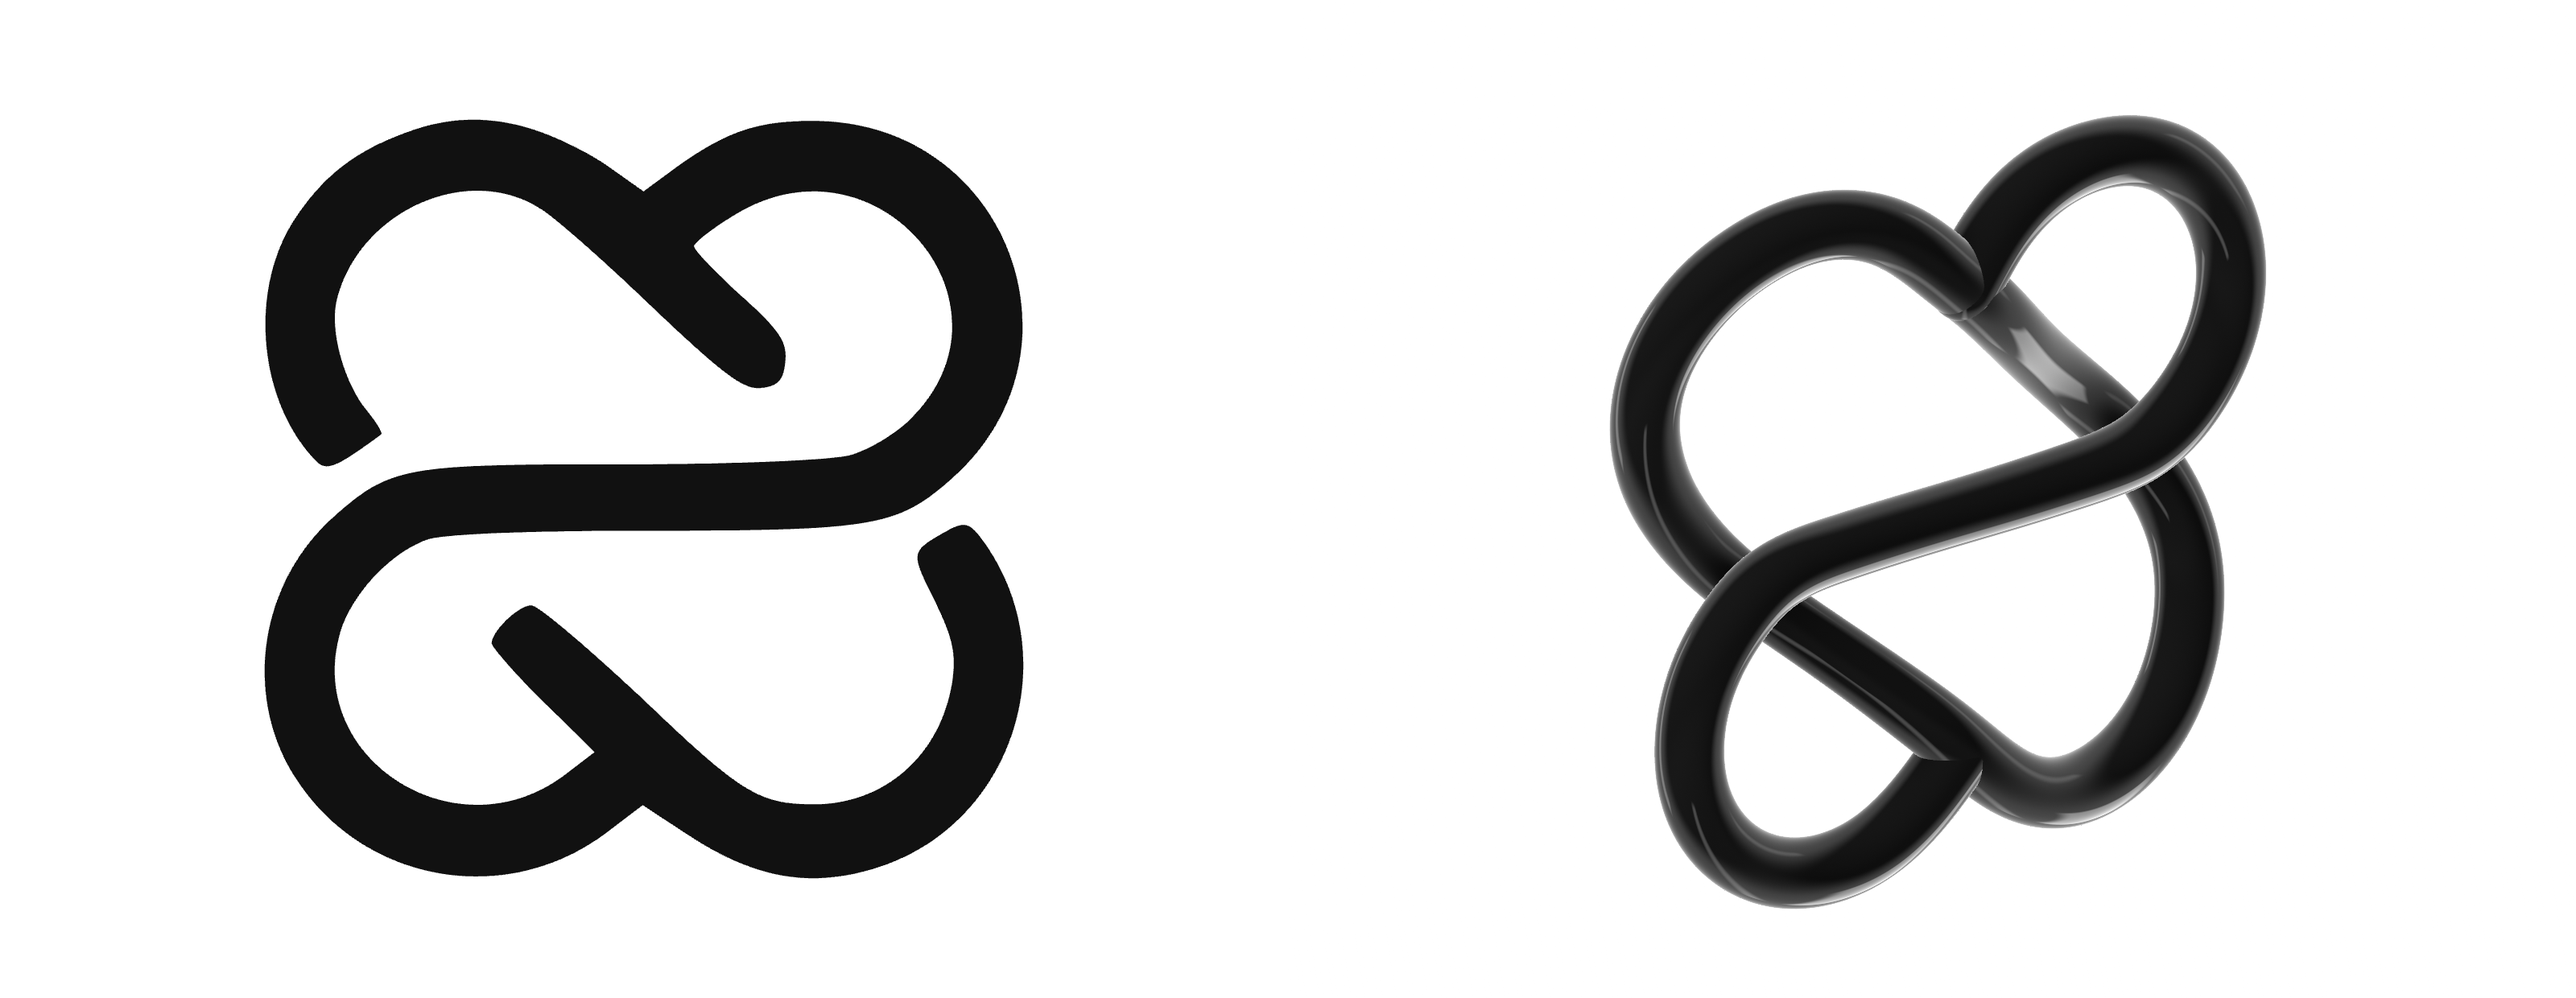
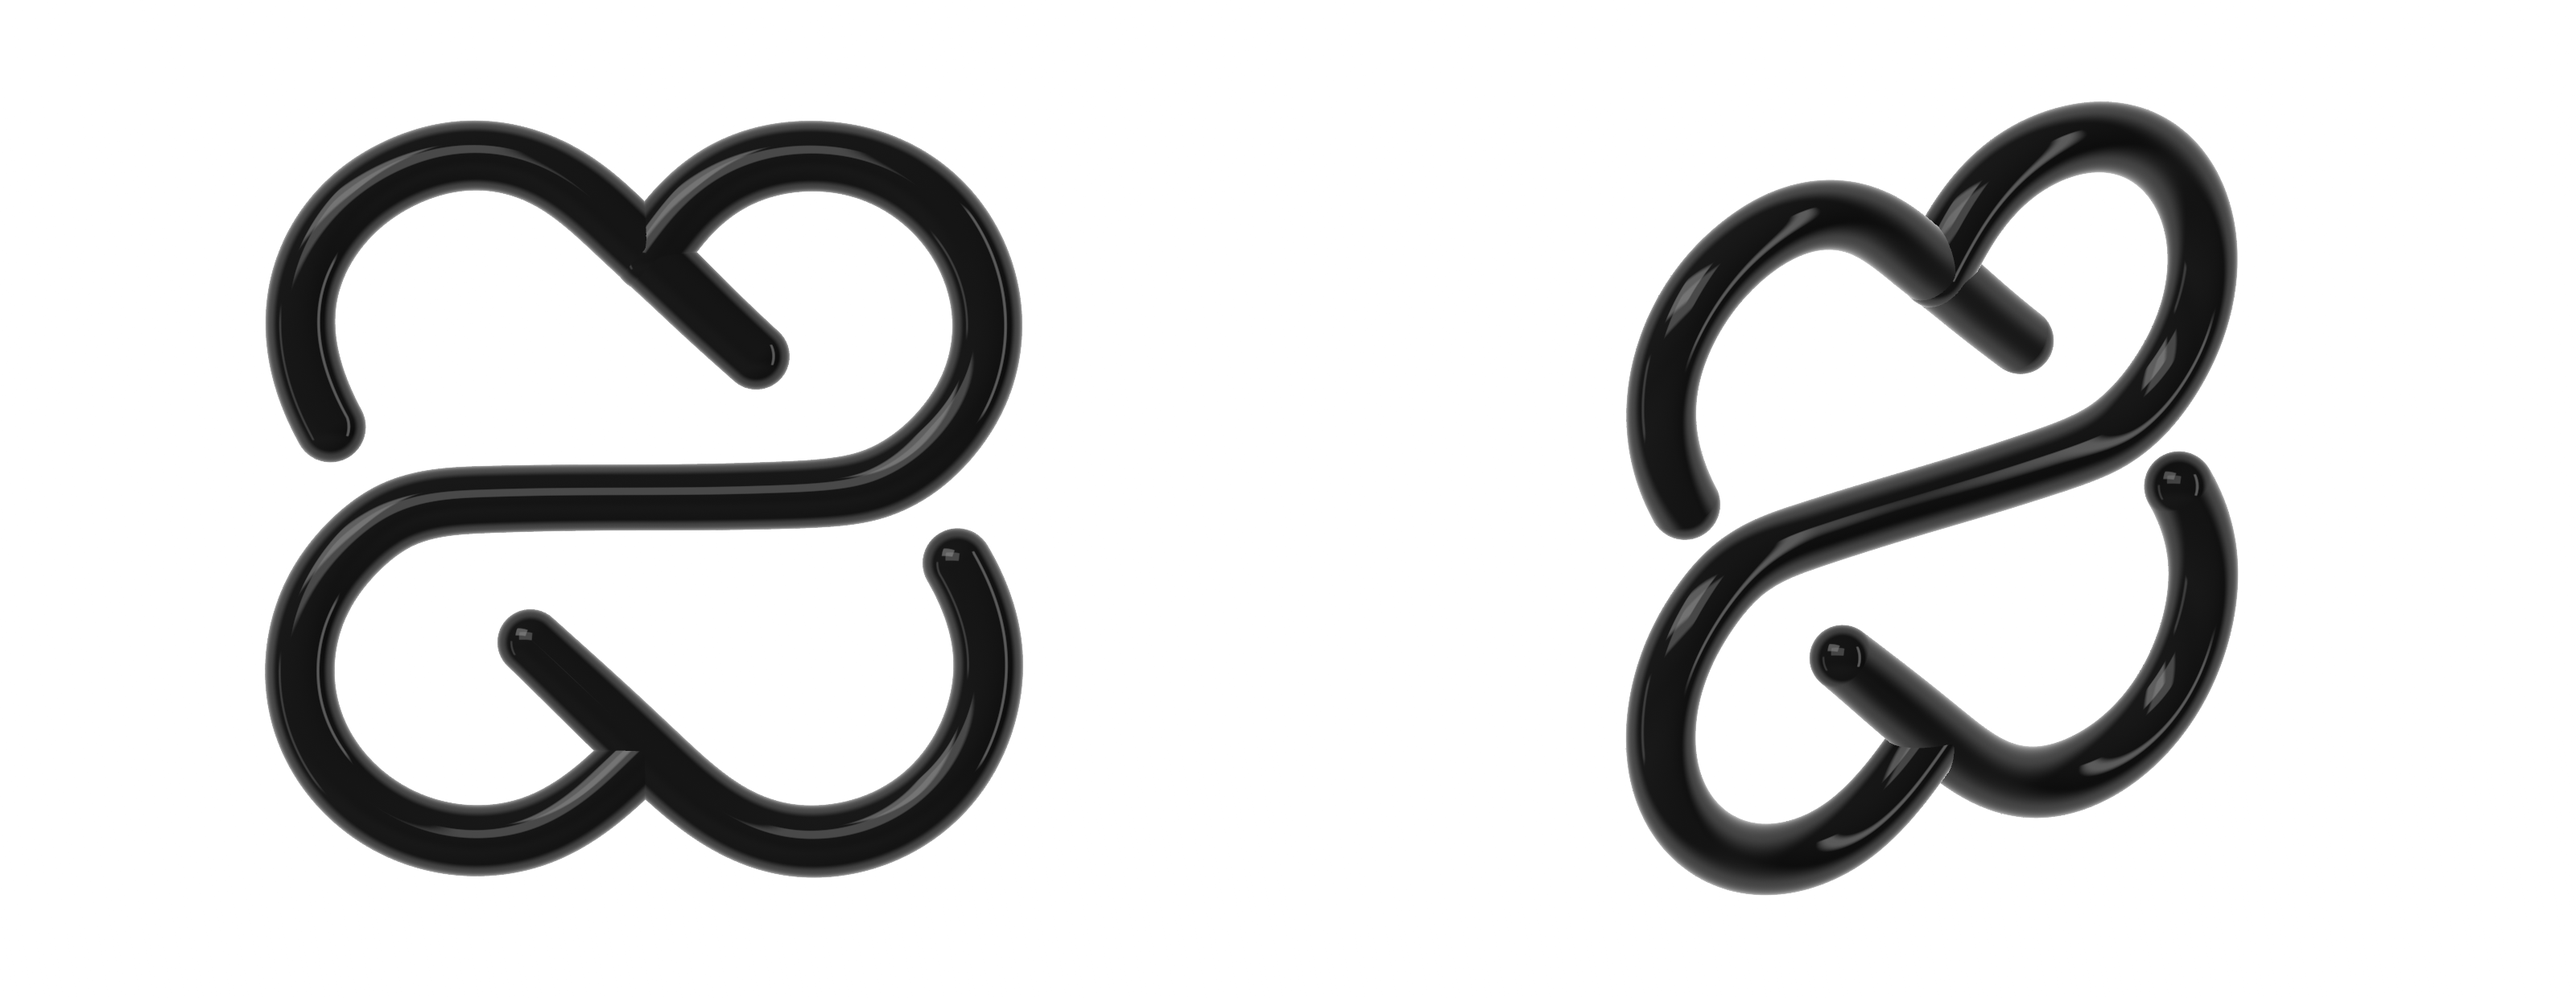
Show the planar tubes in the README

Changed region(s): [[0.0938, 0.1226, 0.4062, 0.8887], [0.625, 0.0919, 0.9062, 0.9194]]

diff --git a/README.md b/README.md
@@ -1,14 +1,14 @@
 # crafter-knot
 
-![The Crafter Station mark, flat and turned into a 3D tube](.github/hero.png)
+![The Crafter Station mark as glossy 3D tubes, front and turned](.github/hero.png)
 
-The Crafter Station mark as a real 3D tube, like three.js's `TorusKnotGeometry`, rendered on WebGPU
-with [vgpu](https://vgpu.sh). At rest it is the logo, pixel for pixel. Drag it and it turns into the
-woven tube the outline was drawn from.
+The Crafter Station mark as real 3D tubes, like three.js's `TorusKnotGeometry`, rendered on WebGPU
+with [vgpu](https://vgpu.sh). Every stroke keeps the mark's exact path, weight, gaps and joins, and is
+swept into a round tube with a black lacquer finish, from the first frame and at every angle.
 
 | Input                     | Does                                                         |
 | ------------------------- | ------------------------------------------------------------ |
-| Drag, mouse or one finger | Turn it; let go and it drifts, then springs back to the mark |
+| Drag, mouse or one finger | Turn it; let go and it drifts, then springs back to face you |
 | `?turn=yaw,pitch`         | Pins a pose in degrees, for stills                           |
 | `?still`                  | Skips the intro swing                                        |
 
@@ -16,59 +16,45 @@ woven tube the outline was drawn from.
 npm install
 npm run dev
 npm run build && npm run preview
-npm run fit   # refits the tube to src/knot/mark.svg (needs Bun)
+npm run fit   # refits the tubes to src/knot/mark.svg (needs Bun)
 ```
 
-Needs WebGPU: current Chrome, Edge and Safari 26. Without it the page keeps the SVG mark, which is
-also what shows while the GPU starts, aligned to the pixel with the first rendered frame.
+Needs WebGPU: current Chrome, Edge and Safari 26. Without it the page shows the SVG mark.
 
-## From outline to tube
+## From outline to tubes
 
 The SVG is one filled outline (42 Bézier segments), not a stroke, so `scripts/fit.ts` recovers the
-tube behind it and writes `src/knot/strands.ts`:
+tubes behind it and writes `src/knot/strands.ts`:
 
-1. **Label the outline.** Each segment is a side of one of two strands or one of the four rounded
-   ends. The stroke is not constant: about 24.2 units on the lobes, 23.3 on the diagonals and 22.8
+1. **Label the outline.** Each segment is a side of one of two strokes or one of the four rounded
+   ends. The weight is not constant: about 24.2 units on the lobes, 23.3 on the diagonals and 22.8
    on the bar (in the 257-unit box).
-2. **Two strands.** The mark is not a single knot: two strokes merge at the top and bottom centre.
-   - The **loop** is closed: top-left lobe, diagonal, under the bar, bottom-right lobe, diagonal,
-     under the bar.
-   - The **bridge** is open: top-right lobe, the bar, bottom-left lobe. Both of its ends finish
-     inside the loop, a weld that reads like the merged strokes from every angle.
-3. **Fit.** Each strand is a uniform cubic B-spline in (x, y, z, radius): 40 knots for the loop, 38
-   for the bridge. The centre line comes from squared-distance minimisation against the outline
-   offset inwards, with a bending penalty that carries it smoothly through the hidden stretches.
-   The radius comes from a second least-squares pass, so the tube keeps the mark's changing weight.
-   Edge error: 0.12 units rms (0.68 max) on the loop and 0.08 (0.44) on the bridge.
-4. **Depth.** The loop dips 1.3 radii where it passes under the bar and rises to the bridge's level
-   at the welds, leaving 0.63 radii of clearance at the crossings.
-5. **Sweep.** `src/knot/tube.ts` builds rotation-minimising frames (double reflection), spreads the
-   closing twist around the loop, and emits 64 sides per ring every 0.012 units, with normals that
-   follow the changing radius. `src/knot/occlusion.ts` bakes contact shadows per vertex from the
-   other strand's centre line.
-
-## At rest it is the mark
-
-Seen straight on, the tubes already cover the outline except in two places: the four ends at the
-gaps (the mark cuts them at a slight tilt with rounded corners), and the chamfered V at the two
-welds. So at rest the tubes are inflated by 3 units and trimmed by the mark itself, rasterised from
-the SVG into a 2048² mask at load and tested per MSAA sample. Diffed against the SVG at 1024², no
-pixel differs beyond anti-aliasing, in Chrome and in Safari 26.
-
-As it turns, the trim and inflation fade out within the first 3°, the gaps under the bar close so
-the loop becomes continuous, and the lacquer shading fades in by 29°.
+2. **Two strokes.** The **loop** runs through both lobes and diagonals and is fitted as one closed
+   curve, so it stays smooth across the gaps. The **bridge** runs from the top-right lobe along the
+   bar to the bottom-left lobe, and both of its ends finish inside the loop where the mark joins
+   them.
+3. **Fit.** Each stroke is a uniform cubic B-spline in (x, y, z, radius): 40 knots for the loop, 38 for
+   the bridge. The centre line comes from squared-distance minimisation against the outline offset
+   inwards, with a bending penalty. The radius comes from a second least-squares pass, so the tubes
+   keep the mark's changing weight. Edge error: 0.12 units rms (0.68 max) on the loop and 0.08
+   (0.44) on the bridge.
+4. **Gaps.** The loop is cut where the mark leaves a gap, so it becomes two open pieces whose
+   rounded ends land on the mark's own ends. All three tubes lie in one plane; nothing crosses.
+5. **Sweep.** `src/knot/tube.ts` builds rotation-minimising frames (double reflection), emits 64
+   sides per ring every 0.012 units with normals that follow the changing radius, and closes each
+   end with a hemisphere. `src/knot/occlusion.ts` bakes contact shadows per vertex where tubes meet.
 
 ## How it renders
 
-| Pass    | Target                              | Draws                                                                                                                                                                |
-| ------- | ----------------------------------- | -------------------------------------------------------------------------------------------------------------------------------------------------------------------- |
-| Knot    | `lit` (rgba16float, 4x MSAA, depth) | the tubes, shaded per sample: flat `#111` at rest, black lacquer as it turns (Fresnel 0.045, analytic studio softboxes over a white backdrop, baked contact shadows) |
-| Present | canvas                              | composited over white in sRGB, soft shoulder above 0.7, dithering                                                                                                    |
+| Pass    | Target                              | Draws                                                                                                                |
+| ------- | ----------------------------------- | -------------------------------------------------------------------------------------------------------------------- |
+| Knot    | `lit` (rgba16float, 4x MSAA, depth) | the tubes in black lacquer: Fresnel 0.045 over analytic studio softboxes and a white backdrop, baked contact shadows |
+| Present | canvas                              | composited over white in sRGB, soft shoulder above 0.7, dithering                                                    |
 
 ```
 scripts/fit.ts        mark.svg outline to strands.ts
-src/knot/             mark, spline, strands (generated), tube sweep, occlusion, mask
+src/knot/             mark, spline, strands (generated), tube sweep, occlusion
 src/render/           renderer, camera, shaders (knot, studio, present)
 src/interaction/      pose (inertia, spring back), pointer
-src/poster.ts         the SVG shown before the first frame and without WebGPU
+src/poster.ts         the SVG shown without WebGPU
 ```
